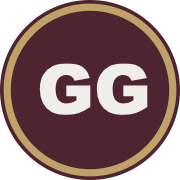
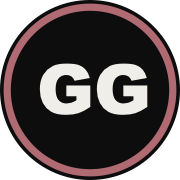
Consolida tema escuro unico em preto e bordo

diff --git a/src/index.css b/src/index.css
@@ -13,102 +13,51 @@
   --font-family-display: 'Anton', ui-sans-serif, system-ui, sans-serif;
   --font-family-mono: 'JetBrains Mono', ui-monospace, SFMono-Regular, monospace;
 
-  /* Light — Cloud Dancer + Bordo Apple */
-  --color-background: #F0EEE9;
-  --color-surface: #FBFAF7;
-  --color-surface-hover: #EDEAE5;
-  --color-foreground: #1E1D1B;
-  --color-muted: #5F5B58;
-  --color-muted-foreground: #5F5B58;
-  --color-border: #D8D4CC;
-
-  --color-accent: #4E2431;
-  --color-accent-foreground: #FDFCF9;
-  --color-accent-dim: #6E3A4B;
-  --color-accent-pastel: #E5D9D9;
-  --color-accent-soft: #ECE6E3;
-
-  --color-primary: #4E2431;
-  --color-primary-foreground: #FDFCF9;
-  --color-secondary: #E7E3DC;
-  --color-secondary-foreground: #1E1D1B;
-  --color-destructive: #4E2431;
-  --color-destructive-foreground: #FDFCF9;
-  --color-card: #FBFAF7;
-  --color-card-foreground: #1E1D1B;
-  --color-popover: #FBFAF7;
-  --color-popover-foreground: #1E1D1B;
-  --color-input: #D8D4CC;
-  --color-ring: #4E2431;
-
-  --color-graphite: #1E1D1B;
-  --color-graphite-light: #33302C;
-  --color-gray-pastel: #E7E3DC;
-  --color-gold: #C0A268;
-}
-
-:root,
-html.light {
-  --color-background: #F0EEE9;
-  --color-surface: #FBFAF7;
-  --color-surface-hover: #EDEAE5;
-  --color-foreground: #1E1D1B;
-  --color-muted: #5F5B58;
-  --color-muted-foreground: #5F5B58;
-  --color-border: #D8D4CC;
-  --color-card: #FBFAF7;
-  --color-card-foreground: #1E1D1B;
-  --color-popover: #FBFAF7;
-  --color-popover-foreground: #1E1D1B;
-  --color-secondary: #E7E3DC;
-  --color-secondary-foreground: #1E1D1B;
-  --color-input: #D8D4CC;
-
-  --glass-bg: #FBFAF7;
-  --glass-border: #D8D4CC;
-  --glass-bg-elevated: #FFFFFF;
-  --glass-border-elevated: #D8D4CC;
-  --glass-shadow: 0 8px 32px -8px #1E1D1B26, 0 0 0 1px #1E1D1B0D;
-  color-scheme: light;
-}
-
-html.dark {
-  --color-background: #251A1F;
-  --color-surface: #2E2329;
-  --color-surface-hover: #372D32;
+  /* Dark only — Preto principal + Bordo */
+  --color-background: #0E0D0D;
+  --color-surface: #151212;
+  --color-surface-hover: #1D1819;
   --color-foreground: #F0EEE9;
   --color-muted: #A99C99;
   --color-muted-foreground: #A99C99;
-  --color-border: #3F3238;
-  --color-card: #2E2329;
-  --color-card-foreground: #F0EEE9;
-  --color-popover: #2E2329;
-  --color-popover-foreground: #F0EEE9;
-  --color-secondary: #2F252A;
+  --color-border: #2A2323;
+
+  --color-accent: #B06A72;
+  --color-accent-foreground: #0E0D0D;
+  --color-accent-dim: #8D4B55;
+  --color-accent-pastel: #2A1A1F;
+  --color-accent-soft: #1E1418;
+
+  --color-primary: #B06A72;
+  --color-primary-foreground: #0E0D0D;
+  --color-secondary: #1D1819;
   --color-secondary-foreground: #F0EEE9;
-  --color-input: #3F3238;
+  --color-destructive: #B06A72;
+  --color-destructive-foreground: #0E0D0D;
+  --color-card: #151212;
+  --color-card-foreground: #F0EEE9;
+  --color-popover: #151212;
+  --color-popover-foreground: #F0EEE9;
+  --color-input: #2A2323;
+  --color-ring: #B06A72;
 
-  --color-accent: #D6B87A;
-  --color-accent-foreground: #251A1F;
-  --color-accent-dim: #B99A5D;
-  --color-accent-pastel: #3B3026;
-  --color-accent-soft: #332A24;
+  --color-graphite: #0E0D0D;
+  --color-graphite-light: #1D1819;
+  --color-gray-pastel: #2A2323;
+}
 
-  --color-primary: #D6B87A;
-  --color-primary-foreground: #251A1F;
-  --color-ring: #D6B87A;
-
-  --glass-bg: #2E2329;
-  --glass-border: #3F3238;
-  --glass-bg-elevated: #372D32;
-  --glass-border-elevated: #4A3D43;
-  --glass-shadow: 0 12px 40px -8px rgba(0, 0, 0, 0.55), 0 0 0 1px rgba(240, 238, 233, 0.03);
+:root {
+  --glass-bg: #151212;
+  --glass-border: #2A2323;
+  --glass-bg-elevated: #1D1819;
+  --glass-border-elevated: #332A2A;
+  --glass-shadow: 0 12px 40px -8px rgba(0, 0, 0, 0.60), 0 0 0 1px rgba(240, 238, 233, 0.03);
   color-scheme: dark;
 }
 
 @layer base {
   * { border-color: var(--color-border); }
-  html { scroll-behavior: smooth; scroll-padding-top: 5rem; transition: background-color 0.3s ease, color 0.3s ease; }
+  html { scroll-behavior: smooth; scroll-padding-top: 5rem; }
   @media (prefers-reduced-motion: reduce) {
     html { scroll-behavior: auto; }
     *, *::before, *::after { animation-duration: 0.01ms !important; animation-iteration-count: 1 !important; transition-duration: 0.01ms !important; }
@@ -116,35 +65,22 @@ html.dark {
   body {
     background-color: var(--color-background);
     color: var(--color-foreground);
+    background-image:
+      radial-gradient(ellipse 70% 45% at 12% -4%, rgba(78, 36, 49, 0.32), transparent 65%),
+      radial-gradient(ellipse 45% 32% at 96% 4%, rgba(176, 106, 114, 0.10), transparent 65%);
+    background-size: 100% 100%, 100% 100%;
+    background-attachment: fixed, fixed;
     font-family: var(--font-family-sans);
     font-size: 16px;
     line-height: 1.6;
     -webkit-font-smoothing: antialiased;
     -moz-osx-font-smoothing: grayscale;
     text-rendering: optimizeLegibility;
-    transition: background-color 0.3s ease, color 0.3s ease;
   }
-  :root body,
-  html.light body {
-    background-image:
-      radial-gradient(ellipse 70% 45% at 12% -4%, rgba(78, 36, 49, 0.10), transparent 65%),
-      radial-gradient(ellipse 45% 32% at 96% 4%, rgba(192, 162, 104, 0.08), transparent 65%);
-    background-size: 100% 100%, 100% 100%;
-    background-attachment: fixed, fixed;
-  }
-  html.dark body {
-    background-image:
-      radial-gradient(ellipse 70% 45% at 12% -4%, rgba(214, 184, 122, 0.14), transparent 65%),
-      radial-gradient(ellipse 45% 32% at 96% 4%, rgba(192, 162, 104, 0.07), transparent 65%);
-    background-size: 100% 100%, 100% 100%;
-    background-attachment: fixed, fixed;
-  }
-  ::selection { background-color: rgba(78, 36, 49, 0.26); color: #F0EEE9; }
-  html.dark ::selection { background-color: rgba(214, 184, 122, 0.32); color: #251A1F; }
+  ::selection { background-color: rgba(176, 106, 114, 0.30); color: #F0EEE9; }
   ::-webkit-scrollbar { width: 8px; height: 8px; }
   ::-webkit-scrollbar-track { background: transparent; }
-  ::-webkit-scrollbar-thumb { background: #B8B4AC; border-radius: 4px; border: 2px solid transparent; background-clip: content-box; }
-  html.dark ::-webkit-scrollbar-thumb { background: #4A3D43; background-clip: content-box; }
+  ::-webkit-scrollbar-thumb { background: #2A2323; border-radius: 4px; border: 2px solid transparent; background-clip: content-box; }
   ::-webkit-scrollbar-thumb:hover { background: var(--color-accent); background-clip: content-box; }
   :focus-visible { outline: 2px solid var(--color-accent); outline-offset: 2px; }
 }
@@ -170,13 +106,10 @@ html.dark {
   }
   .body-text { color: var(--color-foreground); }
   .text-accent-gradient {
-    background-image: linear-gradient(108deg, #C0A268 0%, #8A5A66 50%, #4E2431 100%);
+    background-image: linear-gradient(108deg, #D08A92 0%, #B06A72 48%, #6E3A4B 100%);
     -webkit-background-clip: text;
     background-clip: text;
     color: transparent;
-  }
-  html.dark .text-accent-gradient {
-    background-image: linear-gradient(108deg, #E8D3A2 0%, #D6B87A 55%, #B99A5D 100%);
   }
   .glass-card {
     background-color: var(--glass-bg);
@@ -188,8 +121,8 @@ html.dark {
     box-shadow: var(--glass-shadow);
   }
   .card-pastel {
-    background-color: rgba(78, 36, 49, 0.08);
-    border: 1px solid rgba(78, 36, 49, 0.14);
+    background-color: #1E1418;
+    border: 1px solid #33252A;
   }
   .text-gradient {
     background: linear-gradient(105deg, var(--color-accent), var(--color-accent-dim));

diff --git a/index.html b/index.html
@@ -1,5 +1,5 @@
 <!doctype html>
-<html lang="pt-BR">
+<html lang="pt-BR" class="dark">
   <head>
     <meta charset="UTF-8" />
     <meta name="viewport" content="width=device-width, initial-scale=1.0" />
@@ -31,7 +31,7 @@
     <link rel="icon" href="/favicon-32x32.png" type="image/png" sizes="32x32" />
     <link rel="icon" href="/favicon-16x16.png" type="image/png" sizes="16x16" />
     <link rel="apple-touch-icon" href="/apple-touch-icon.png" />
-    <link rel="mask-icon" href="/favicon.svg" color="#4E2431" />
+    <link rel="mask-icon" href="/favicon.svg" color="#B06A72" />
     <link rel="manifest" href="/site.webmanifest" />
 
     <!-- Google Fonts - Anton (títulos) + Inter (corpo) + JetBrains Mono (dados) -->
@@ -39,9 +39,8 @@
     <link rel="preconnect" href="https://fonts.gstatic.com" crossorigin />
     <link href="https://fonts.googleapis.com/css2?family=Anton&family=Inter:wght@400;500;600;700&family=JetBrains+Mono:wght@400;500&display=swap" rel="stylesheet" />
 
-    <meta name="theme-color" content="#F0EEE9" media="(prefers-color-scheme: light)" />
-    <meta name="theme-color" content="#251A1F" media="(prefers-color-scheme: dark)" />
-    <meta name="msapplication-TileColor" content="#4E2431" />
+    <meta name="theme-color" content="#0E0D0D" />
+    <meta name="msapplication-TileColor" content="#B06A72" />
   </head>
 
   <body>

diff --git a/src/App.tsx b/src/App.tsx
@@ -15,7 +15,7 @@ const basename = import.meta.env.BASE_URL;
 const App = () => (
   <ErrorBoundary>
     <QueryClientProvider client={queryClient}>
-      <ThemeProvider attribute="class" defaultTheme="dark" enableSystem={false} storageKey="portfolio-ui-theme" disableTransitionOnChange>
+      <ThemeProvider attribute="class" defaultTheme="dark" forcedTheme="dark" enableSystem={false} storageKey="portfolio-ui-theme" disableTransitionOnChange>
         <TooltipProvider>
           <Toaster />
           <Sonner />

diff --git a/src/components/NavBar.tsx b/src/components/NavBar.tsx
@@ -1,6 +1,5 @@
 import { useEffect, useState } from "react";
 import { cn } from "@/lib/utils";
-import ThemeToggle from "@/components/ThemeToggle";
 
 const links = [
   { id: "sobre", label: "Sobre" },
@@ -77,9 +76,6 @@ export default function NavBar() {
                 </li>
               ))}
             </ul>
-          </div>
-          <div className="shrink-0">
-            <ThemeToggle />
           </div>
         </div>
       </nav>

diff --git a/README.md b/README.md
@@ -1,6 +1,6 @@
 # Portfólio — Geovane Gofredo
 
-Portfólio executivo de Geovane Gofredo — coordenação de TI, governança e Service Delivery (ITSM/SDM), com modo claro/escuro, animações e foco em performance.
+Portfólio executivo de Geovane Gofredo — coordenação de TI, governança e Service Delivery (ITSM/SDM), em modo escuro, com animações e foco em performance.
 
 **Site:** https://geovaneyu.github.io/portfolio/  
 **Currículo (PDF):** https://geovaneyu.github.io/portfolio/CV-Geovane-Gofredo-2026.pdf  
